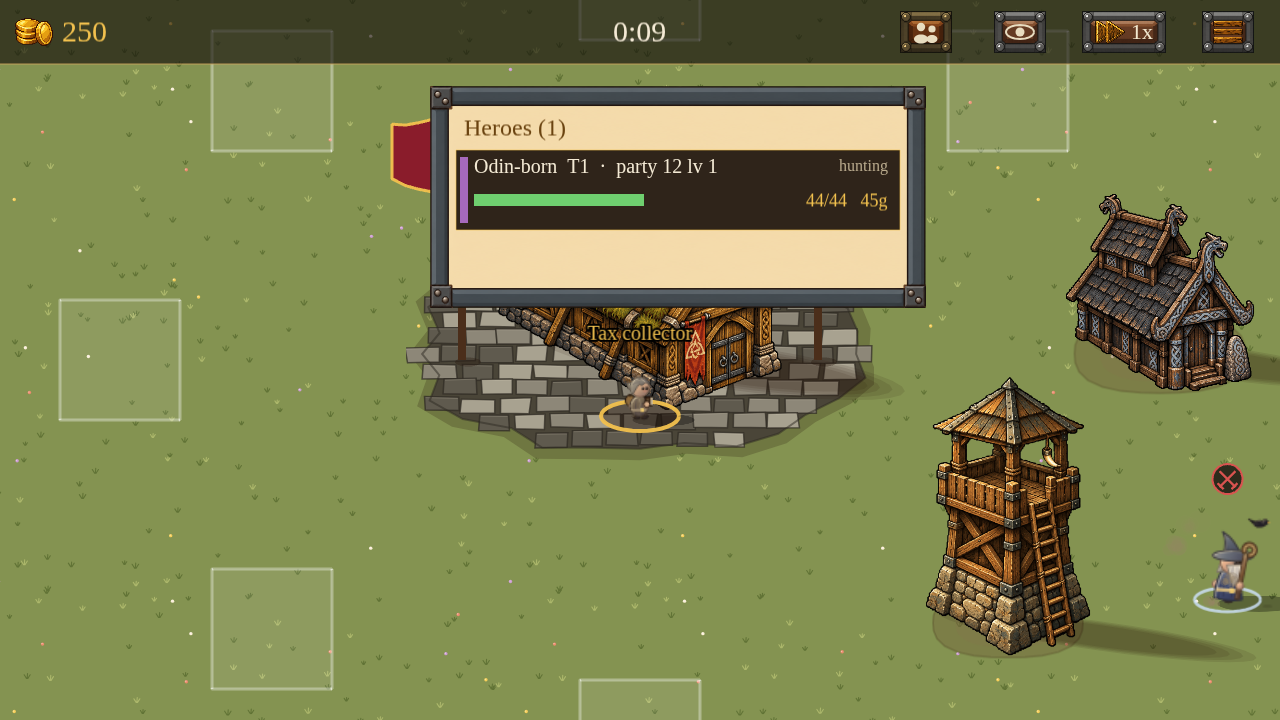
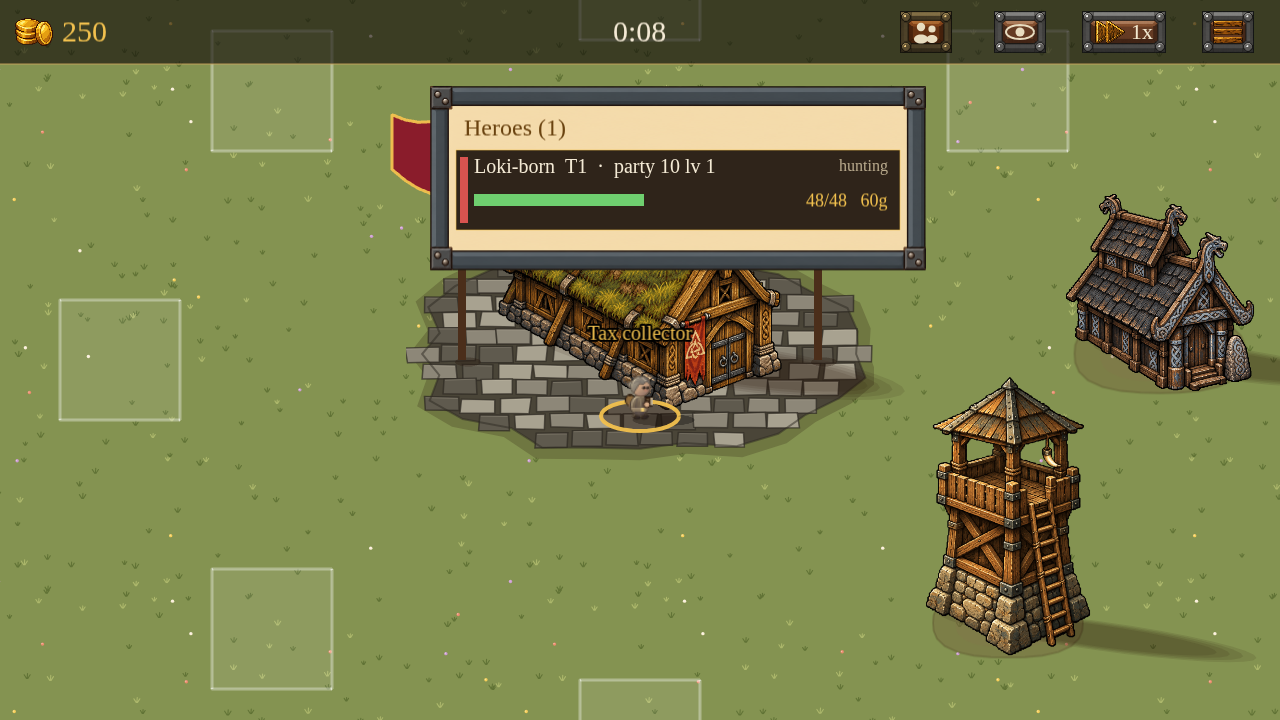
fix(scene): the roster panel shrinks to its content
Claude-Session: https://claude.ai/code/session_01EDKMoTWRabZMeHFkhrUDvd

diff --git a/src/scenes/HudScene.ts b/src/scenes/HudScene.ts
@@ -481,7 +481,7 @@ export class HudScene extends Phaser.Scene {
     const rowH = MIN_TOUCH;
     const pitch = rowH + 4; // a gap so neighbouring outlines never overdraw
     // As tall as its rows (and the pager when there is one), so it never blocks empty map.
-    const H = 70 + Math.max(pg.rows.length, 1.5) * pitch + (pg.pages > 1 ? 100 : 30);
+    const H = 70 + Math.max(pg.rows.length, 1.1) * pitch + (pg.pages > 1 ? 100 : 26);
     this.rosterRect = new Phaser.Geom.Rectangle(X, Y, ROSTER_W, H);
     const add = <T extends Phaser.GameObjects.GameObject>(o: T): T => {
       this.rosterObjects.push(o);
